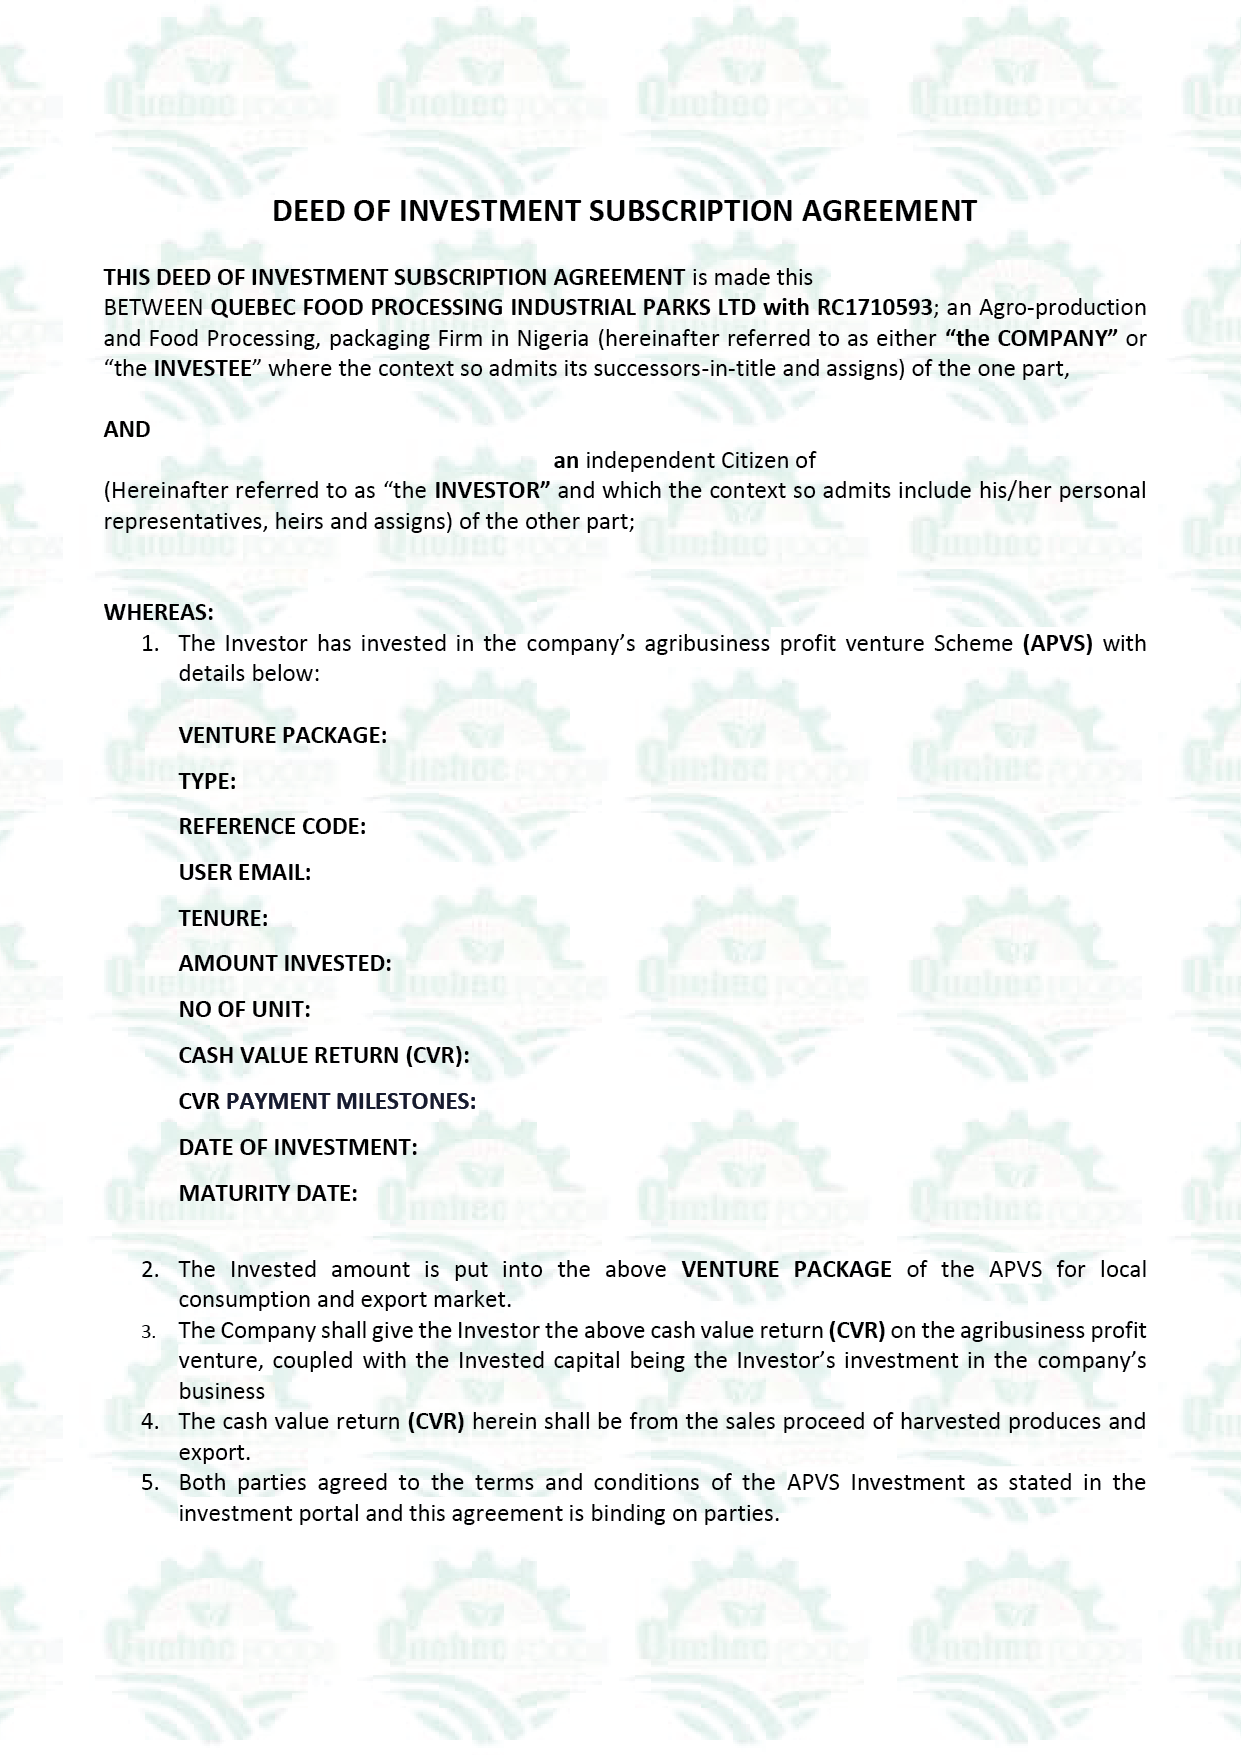
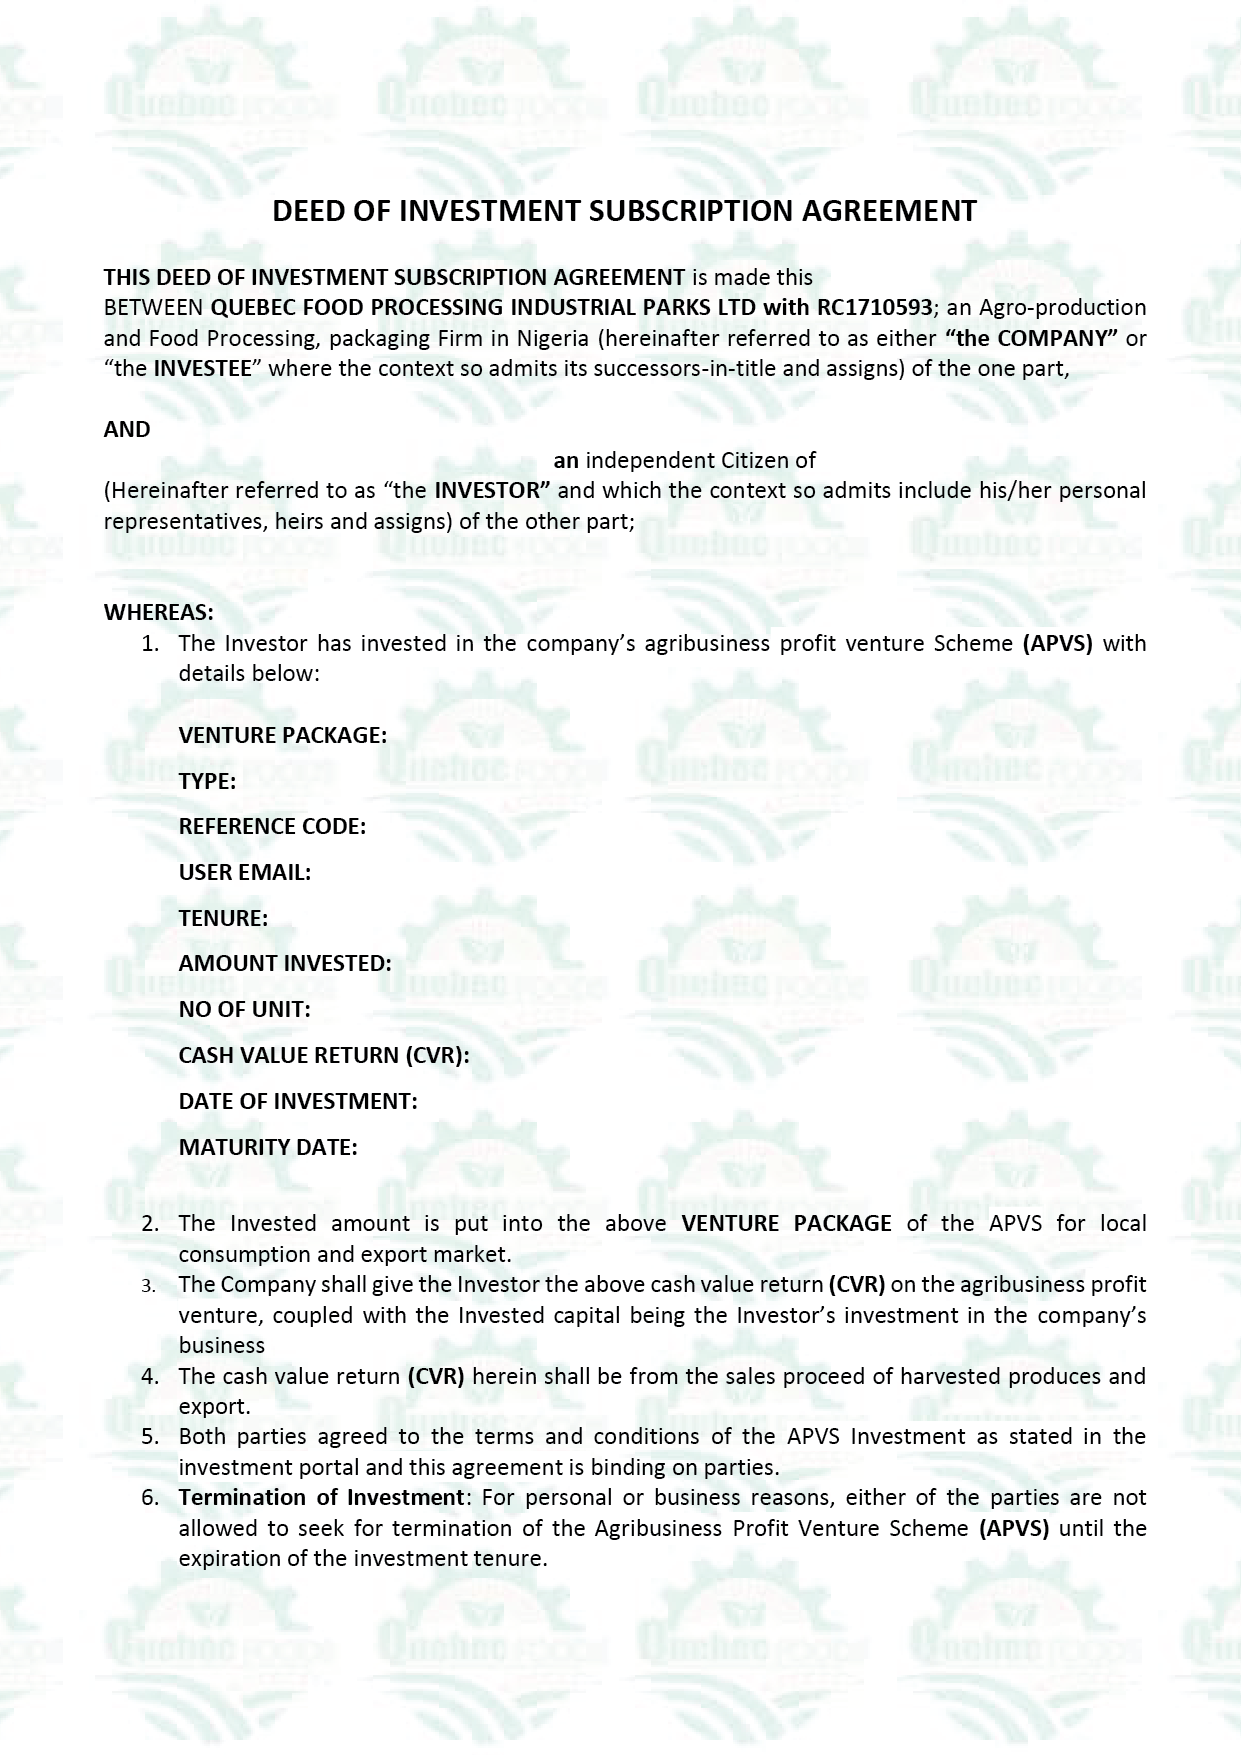
new farm doi

Changed region(s): [[0.1225, 0.6154, 0.9186, 0.8923]]

diff --git a/resources/views/pdf/certificate.blade.php b/resources/views/pdf/certificate.blade.php
@@ -63,7 +63,7 @@
 <body>
 @php
 
-//$investment = App\Models\Investment::where('id', 9)->first();
+$investment = App\Models\Investment::where('id', 9)->first();
 
  $cur = App\Models\Setting::where('id', 1)->first();
 
@@ -120,13 +120,13 @@ $code = str_shuffle($pin);
             <div style="top: 663px; left: 40%; font-size: 15px; font-weight: 500;" class="item">
                 {{ $investment["package"]["roi"] }}% per {{ $investment["package"]["duration_mode"] }}
             </div>
-            <div style="top: 693px; left: 40%; font-size: 15px; font-weight: 500;" class="item">
+            <!-- <div style="top: 693px; left: 40%; font-size: 15px; font-weight: 500;" class="item">
                 {{ $investment["package"]["milestones"] }} {{ $investment["package"]["milestones"] > 1 ? 'milestones' : 'milestone' }}
-            </div>
-            <div style="top: 722px; left: 40%; font-size: 15px; font-weight: 500;" class="item">
+            </div> -->
+            <div style="top: 690px; left: 40%; font-size: 15px; font-weight: 500;" class="item">
                 {{ $investment["investment_date"]->format("F d,  Y") }}
             </div>
-            <div style="top: 750px; left: 40%; font-size: 15px; font-weight: 500;" class="item">
+            <div style="top: 721px; left: 40%; font-size: 15px; font-weight: 500;" class="item">
                 {{ $investment['return_date']->format('F d,  Y') }}
             </div>
             <img style="max-width: 100%;" src="./assets/media/FARM-ESTATE-DOI-02.png" alt="bg">

diff --git a/routes/web.php b/routes/web.php
@@ -14,9 +14,9 @@ use Illuminate\Support\Facades\Route;
 |
 */
 
-// Route::get('/pdf', function(){
-//     return view('pdf.certificate');
-// });
+Route::get('/pdf', function(){
+    return view('pdf.certificate');
+});
 
 Route::get('/', [App\Http\Controllers\StaticPageController::class, 'home'])->name('static.home');
 Route::get('/about', [App\Http\Controllers\StaticPageController::class, 'about'])->name('static.about');
